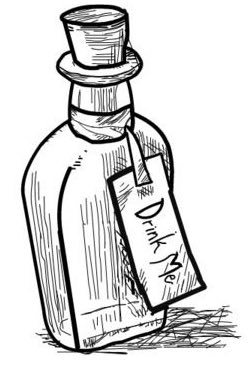
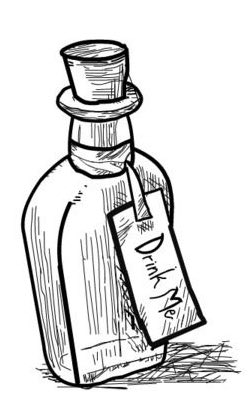
taller

diff --git a/README.md b/README.md
@@ -1,4 +1,4 @@
-<img src="./img/drink-me.jpeg" alt="Drink Me." align="left" height="200" />
+<img src="./img/drink-me.jpeg" alt="Drink Me." align="left" height="300" />
 
 # ~ vial: a micro micro-framework ~
 
